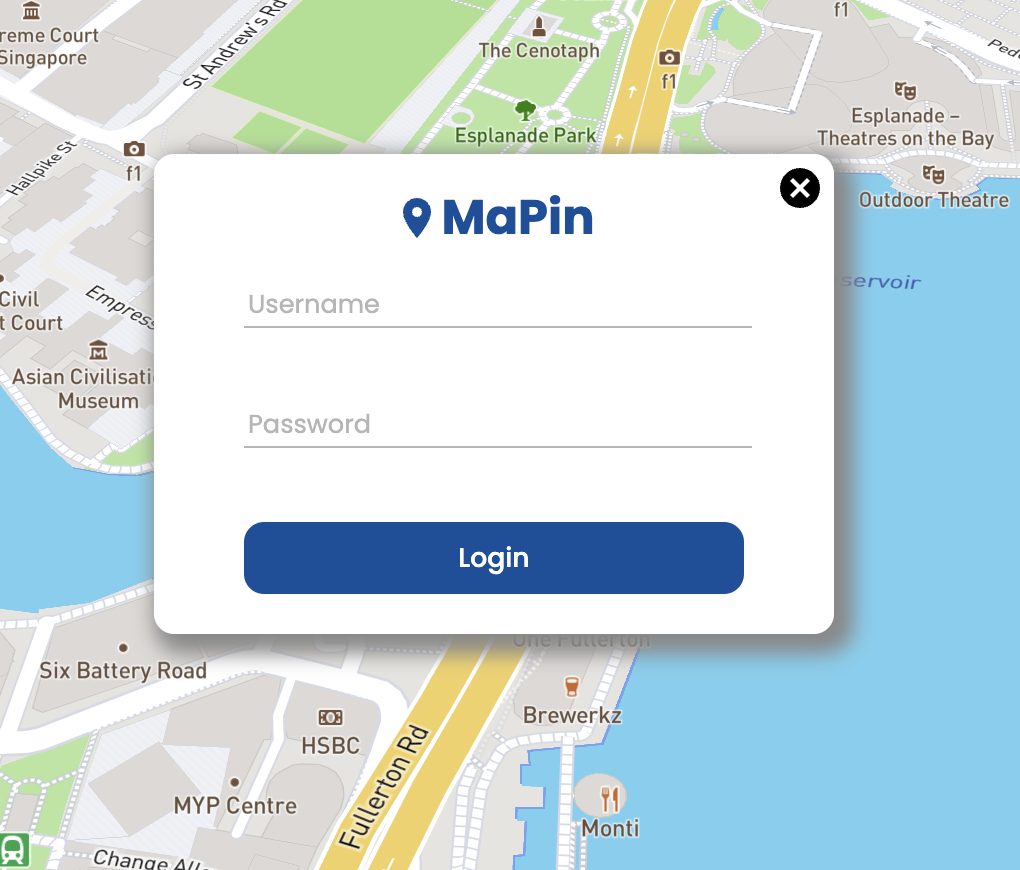
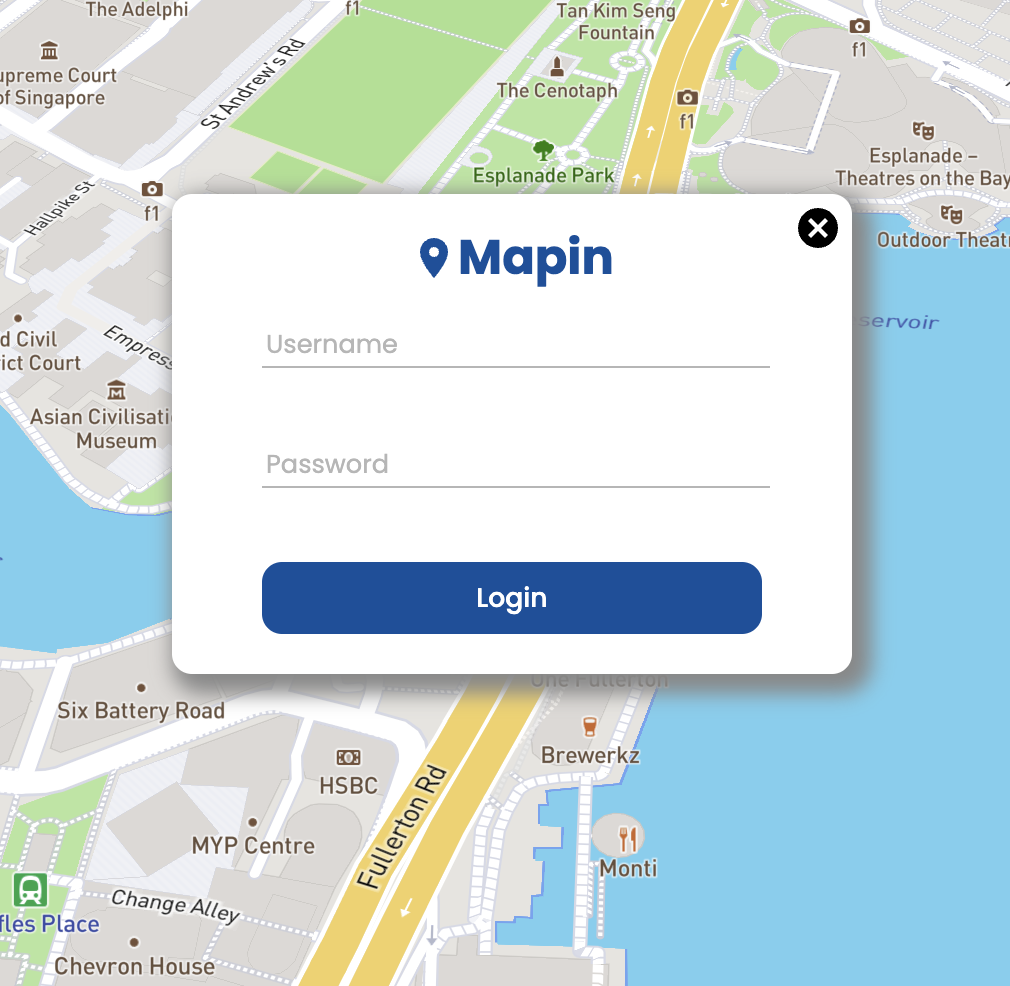
docs: update the README file

diff --git a/frontend/src/Components/Login.jsx b/frontend/src/Components/Login.jsx
@@ -31,7 +31,7 @@ export default function Login({ setShowLogin, myStorage, setCurrentUser }) {
   return (
     <div className="loginContainer">
       <div className="logo">
-        <RoomIcon /> MaPin
+        <RoomIcon /> Mapin
       </div>
       <form onSubmit={handleSubmit}>
         <input type="text" placeholder="Username" ref={nameRef} />
